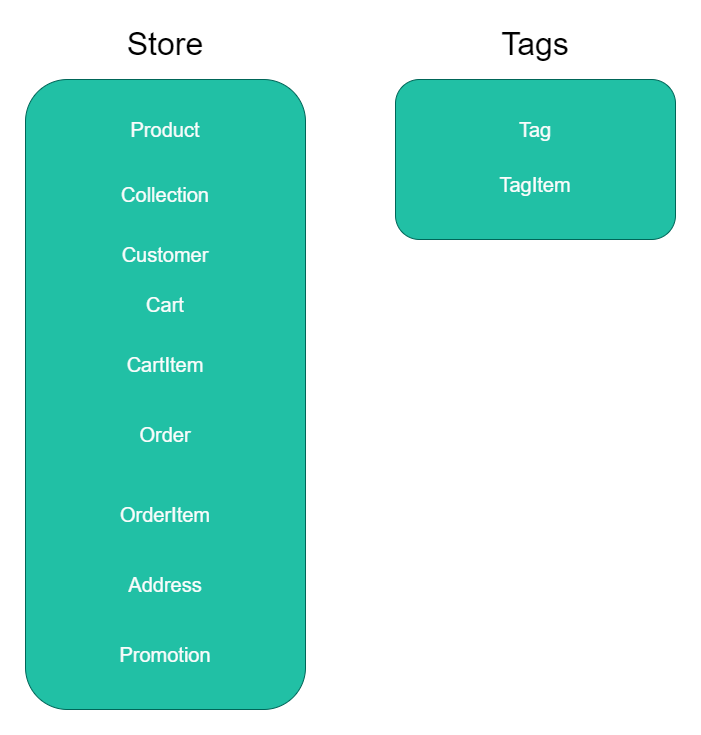
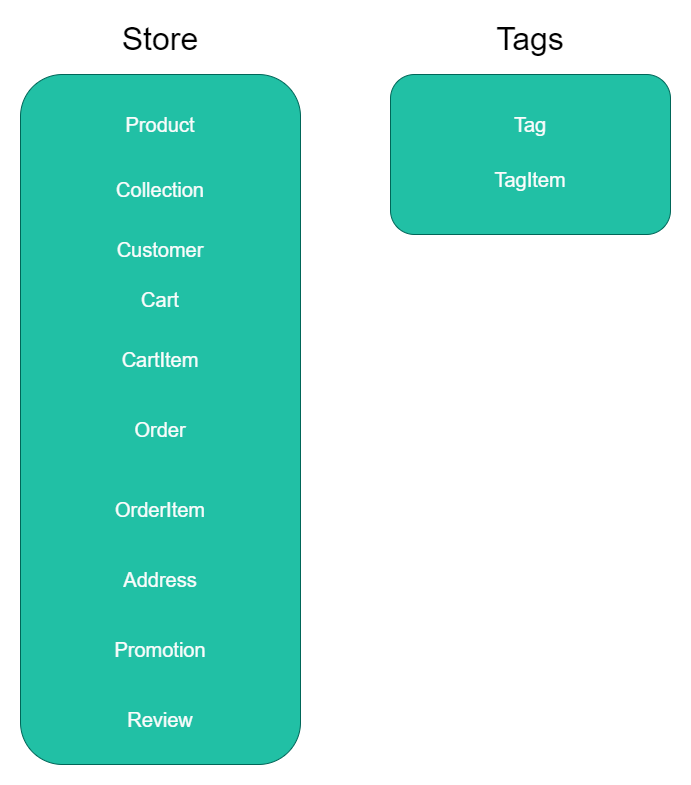
Add review model to store app

diff --git a/store/urls.py b/store/urls.py
@@ -6,24 +6,25 @@ from store import views
 router = DefaultRouter()
 router.register("products", views.ProductViewSet, basename="products")
 router.register("collections", views.CollectionViewSet, basename="collections")
-urlpatterns = router.urls
+# urlpatterns = router.urls
 
-# urlpatterns = [
-#     path("__debug__/", include('debug_toolbar.urls')),
-#
-#     # path("products/", views.product_list, name="products"),
-#     # Use url routes for class-based products view instead of function-based
-#     path("products/", views.ProductList.as_view(), name="products"),
-#
-#     # path("products/<int:pk>", views.product_detail, name="product-detail"),
-#     # Use url routes for class-based product detail view instead of function-based
-#     path("products/<int:pk>", views.ProductDetail.as_view(), name="product-detail"),
-#
-#     # path("collections/", views.collection_list, name="collections"),
-#     # Use url routes for class-based products view instead of function-based
-#     path("collections/", views.CollectionList.as_view(), name="collections"),
-#
-#     # path("collections/<int:pk>", views.collection_detail, name="collection-detail")
-#     # Use url routes for class-based products view instead of function-based
-#     path("collections/<int:pk>", views.CollectionDetail.as_view(), name="collection-detail")
-# ]
+urlpatterns = [
+          path("__debug__/", include('debug_toolbar.urls')),
+          # Include view set routers
+          path("", include(router.urls))
+    #     # path("products/", views.product_list, name="products"),
+    #     # Use url routes for class-based products view instead of function-based
+    #     path("products/", views.ProductList.as_view(), name="products"),
+    #
+    #     # path("products/<int:pk>", views.product_detail, name="product-detail"),
+    #     # Use url routes for class-based product detail view instead of function-based
+    #     path("products/<int:pk>", views.ProductDetail.as_view(), name="product-detail"),
+    #
+    #     # path("collections/", views.collection_list, name="collections"),
+    #     # Use url routes for class-based products view instead of function-based
+    #     path("collections/", views.CollectionList.as_view(), name="collections"),
+    #
+    #     # path("collections/<int:pk>", views.collection_detail, name="collection-detail")
+    #     # Use url routes for class-based products view instead of function-based
+    #     path("collections/<int:pk>", views.CollectionDetail.as_view(), name="collection-detail")
+]

diff --git a/store/migrations/0014_review.py b/store/migrations/0014_review.py
@@ -1,0 +1,39 @@
+# Generated by Django 4.1.3 on 2022-11-07 10:42
+
+from django.db import migrations, models
+import django.db.models.deletion
+
+
+class Migration(migrations.Migration):
+
+    dependencies = [
+        ("store", "0013_alter_product_collection_alter_promotion_description"),
+    ]
+
+    operations = [
+        migrations.CreateModel(
+            name="Review",
+            fields=[
+                (
+                    "id",
+                    models.BigAutoField(
+                        auto_created=True,
+                        primary_key=True,
+                        serialize=False,
+                        verbose_name="ID",
+                    ),
+                ),
+                ("name", models.CharField(max_length=255)),
+                ("description", models.TextField()),
+                ("date", models.DateField(auto_now_add=True)),
+                (
+                    "product",
+                    models.ForeignKey(
+                        on_delete=django.db.models.deletion.CASCADE,
+                        related_name="reviews",
+                        to="store.product",
+                    ),
+                ),
+            ],
+        ),
+    ]

diff --git a/store/models.py b/store/models.py
@@ -118,3 +118,11 @@ class Address(models.Model):
     city = models.CharField(max_length=255)
     # Set one-to-many relationship with customer where customer can have multiple addresses
     customer = models.ForeignKey(Customer, on_delete=models.CASCADE)
+
+
+class Review(models.Model):
+    """ Create Review model and associate many-to-one relation with product model """
+    product = models.ForeignKey(Product, on_delete=models.CASCADE, related_name="reviews")
+    name = models.CharField(max_length=255)
+    description = models.TextField()
+    date = models.DateField(auto_now_add=True)
